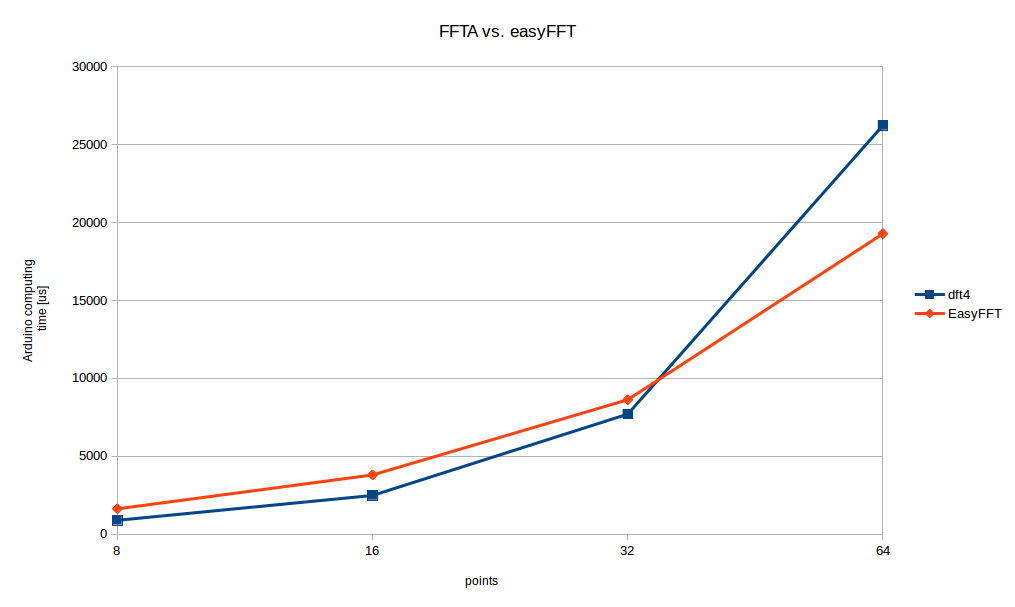
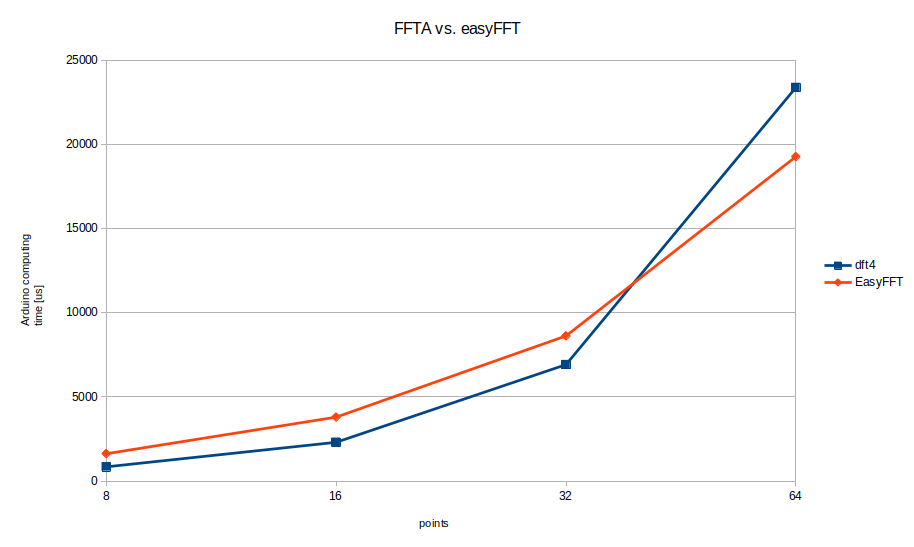
update benchmark table

diff --git a/README.md b/README.md
@@ -41,8 +41,8 @@ Implementation / N-points: | 8 | 16 | 32 | 64
 dft1 | 16436 | 66056 | 265968 | 1074168
 dft2 | 2228 | 7692 | 28368 | 108520
 dft3 | 1144 | 3428 | 11440 | 41052
-dft4 | 888 | 2484 | 7704 | 26240
-dft5 | 824 | 2256 | 6824 | 22816
+dft4 | 844 | 2304 | 6922 | 23400
+dft5 | 784 | 2096 | 6184 | 20236
 EasyFFT [6] (measured time of FFT function, excluding local variable declarations and Serial.print functions) | 1624 | 3800 | 8628 | 19288
 
 ![Dft4 vs. EasyFFT](figures/dft4_vs_easyfft.png  "Dft4 vs. EasyFFT")
